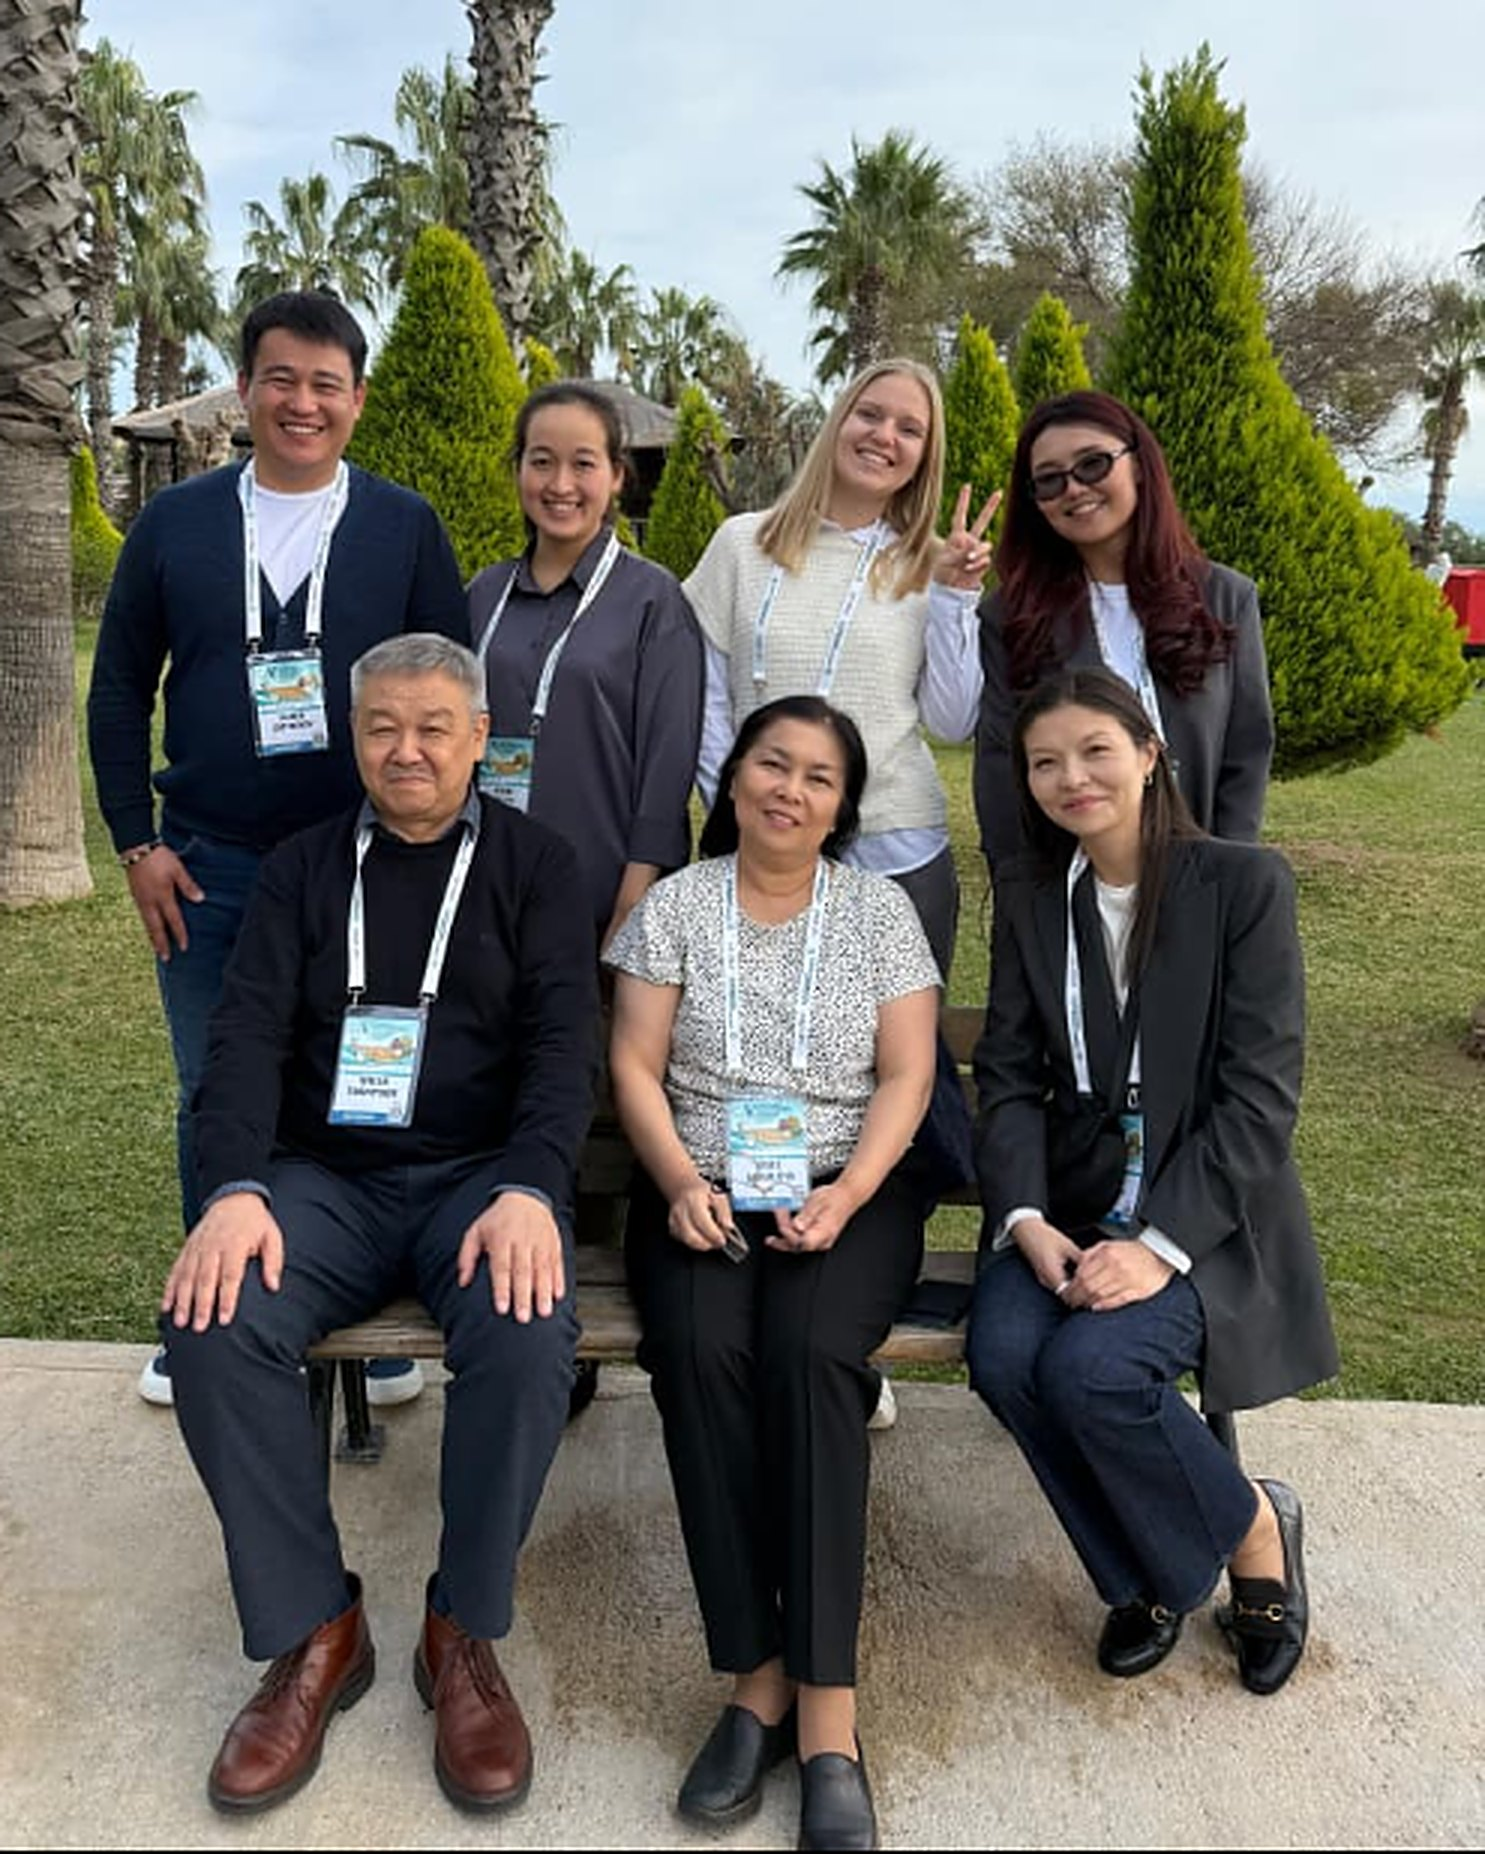
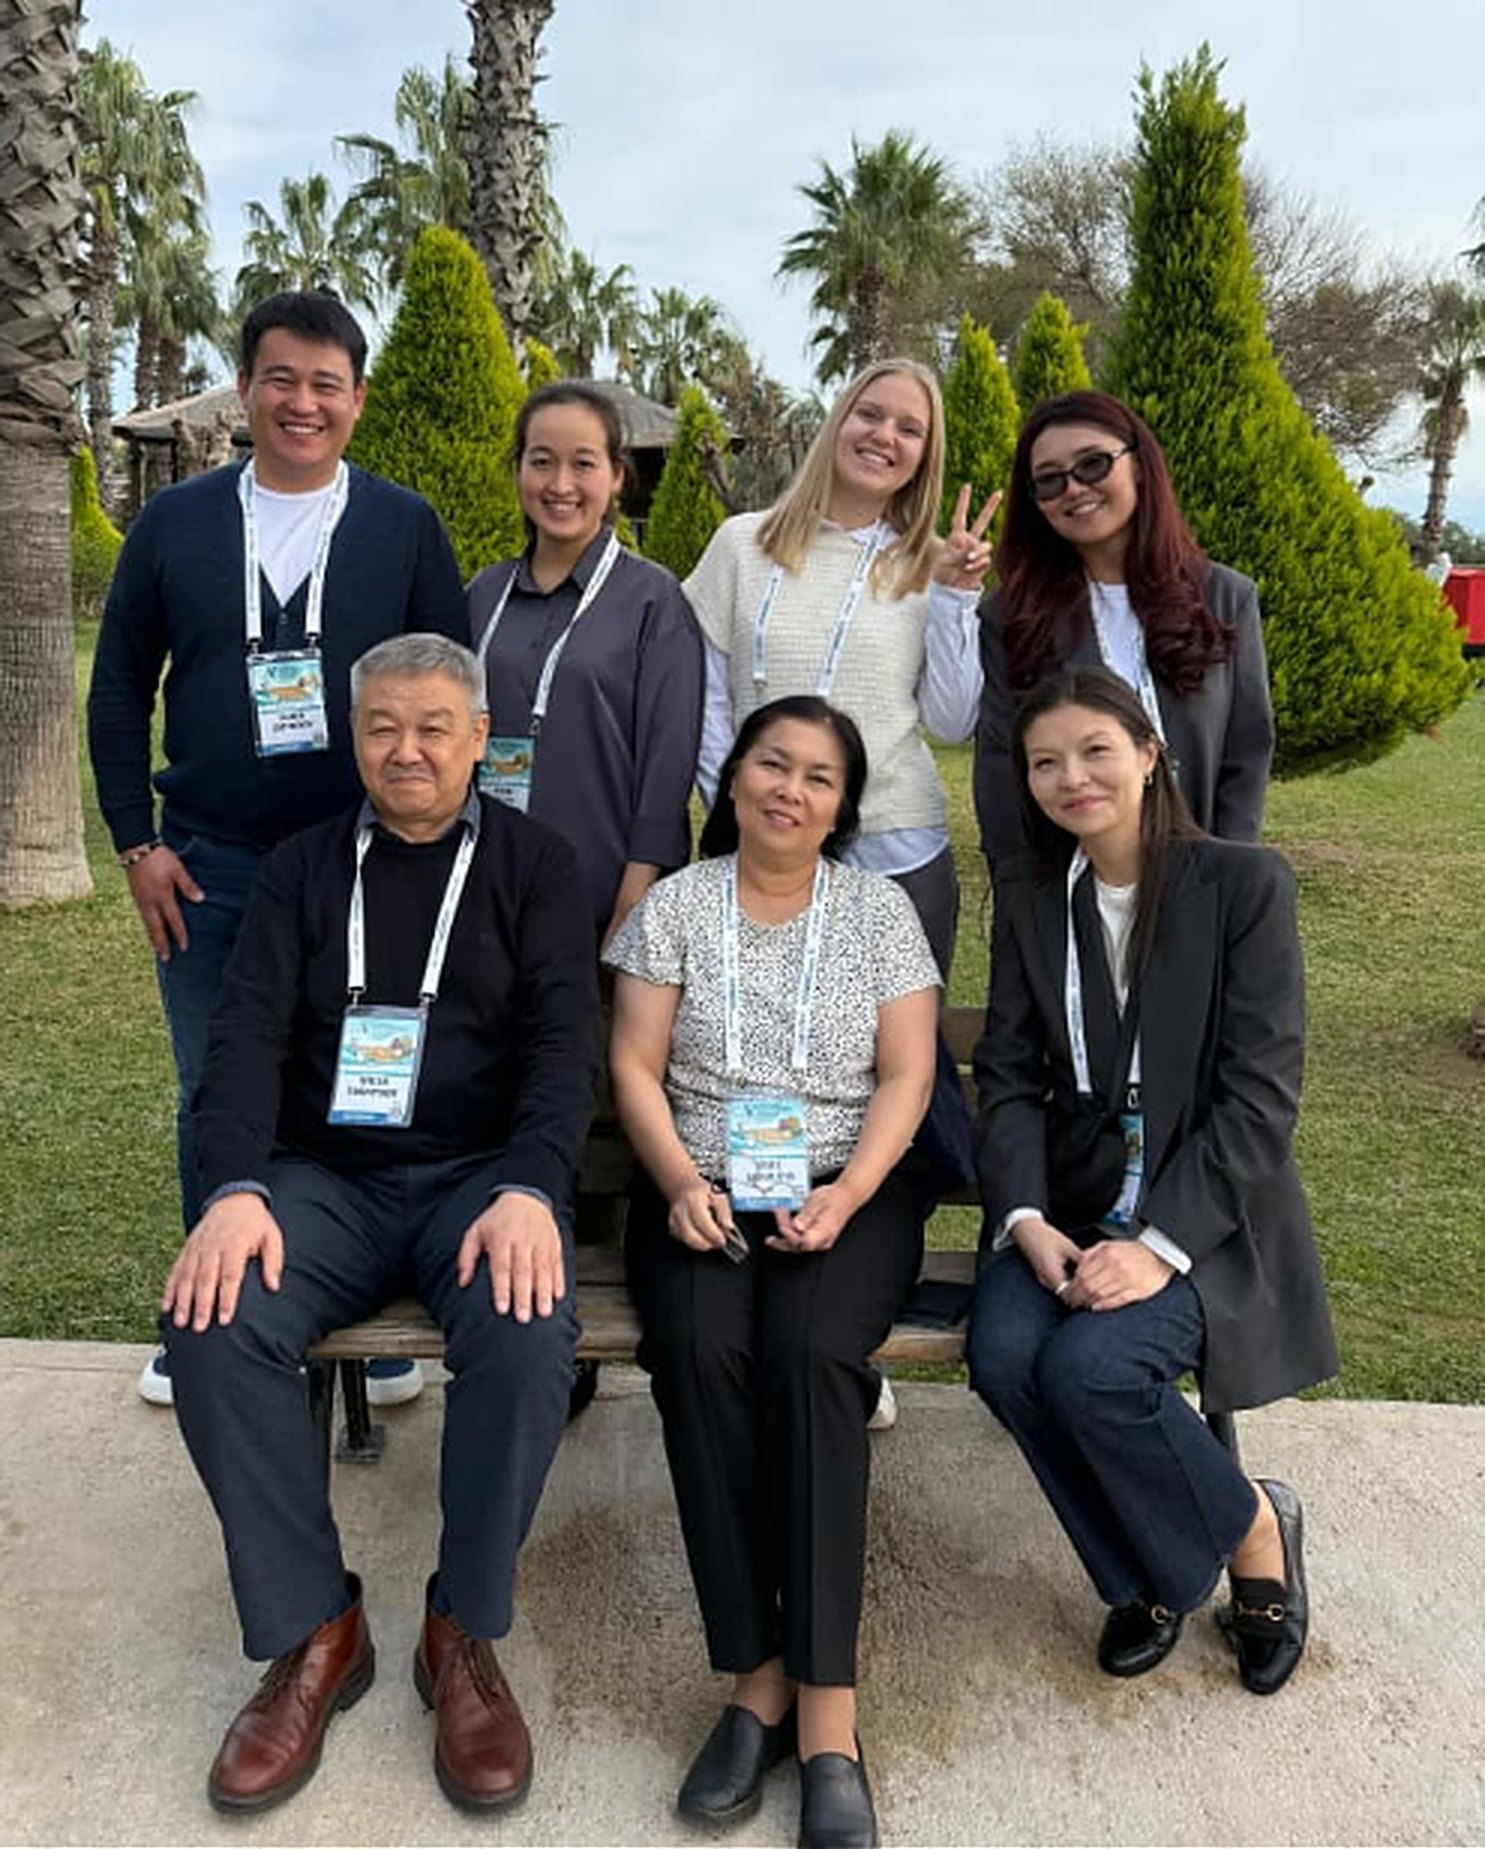
Лёгкое скругление углов; профили сотрудников — с прямыми углами
Claude-Session: https://claude.ai/code/session_01KxN2aaePTHnFn3EQn8VP3U

diff --git a/assets/css/main.css b/assets/css/main.css
@@ -805,11 +805,12 @@ h3 { font-size: 1.08rem; }
 .team-alumni .profile { --photo-w: clamp(190px, 18vw, 240px); }
 .team-alumni .profile-card { margin-top: 28px; }
 
-/* ═════════ Без скруглённых углов ═════════
-   Прямые углы у всех элементов сайта. Макет приложения в демо CropPopStructure не трогаем,
-   чтобы он оставался похожим на настоящий интерфейс. Чтобы вернуть скругления — удалите этот блок. */
-:root { --r-sm: 0; --r-md: 0; --r-lg: 0; }
-*:not(.demo-stage, .demo-stage *),
-*:not(.demo-stage, .demo-stage *)::before,
-*:not(.demo-stage, .demo-stage *)::after { border-radius: 0 !important; }
-.map iframe { border-radius: 0; }
+/* ═════════ Лёгкое скругление углов ═════════
+   Небольшие скругления по всему сайту. Профили сотрудников (фото и плашка) — с прямыми углами.
+   Макет приложения в демо CropPopStructure не трогаем. */
+:root { --r-sm: 4px; --r-md: 6px; --r-lg: 8px; }
+.menu a, .langs, .nav-toggle, .btn, .chips li, .demo-steps li, .demo-toggle,
+.map-link, .car-btn, .lb-btn { border-radius: 6px; }
+.langs a, .demo-steps li::before { border-radius: 4px; }
+.demo-viewport { border-radius: var(--r-lg); }
+.profile-photo, .profile-photo img, .profile-blank, .profile-card { border-radius: 0; }
